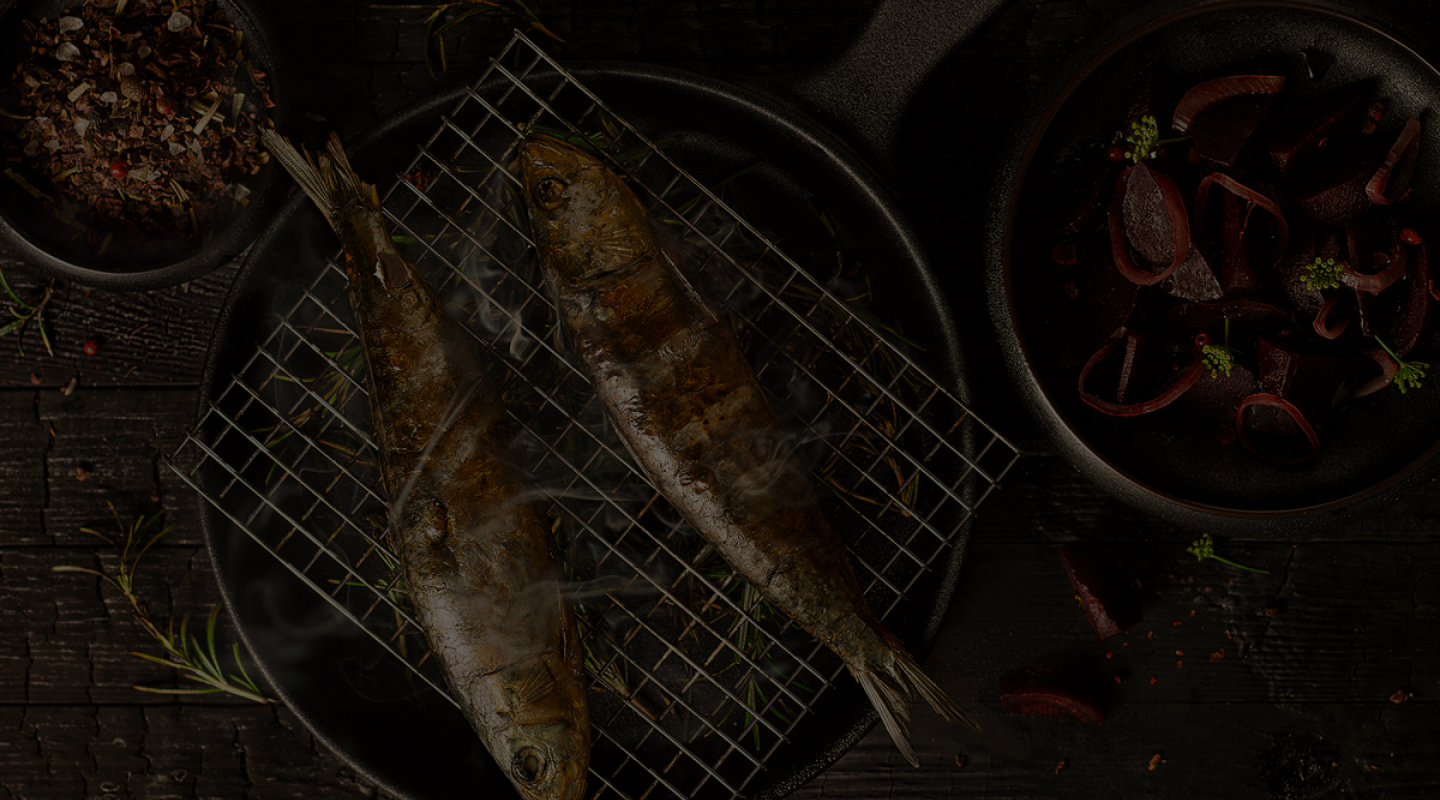
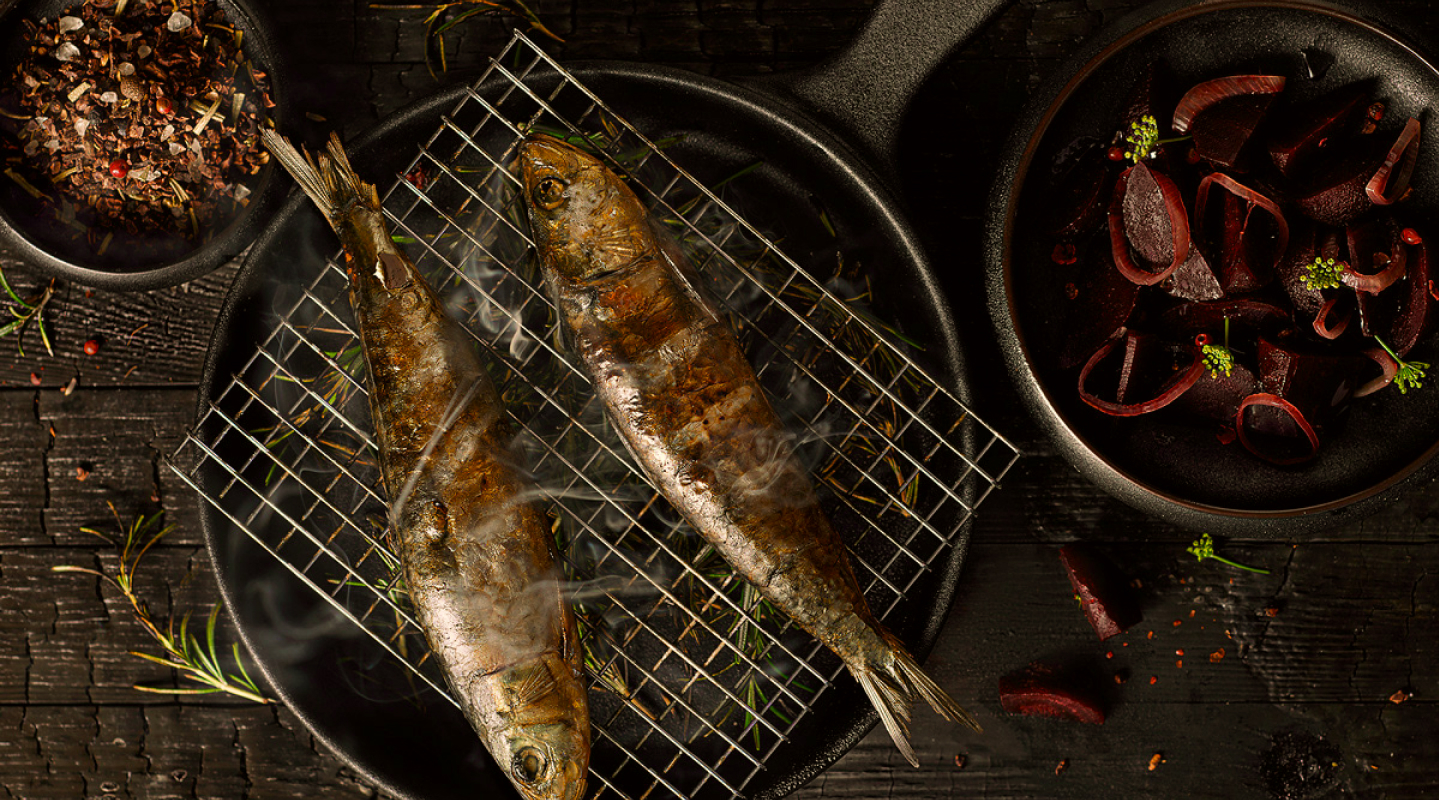
done 2d section

diff --git a/app/index.html b/app/index.html
@@ -10,7 +10,7 @@
 
 <body>
 
-  <header class="header">
+  <header class="header" style="background-image: url(img/header-bg.jpg);">
     <div class="container">
       <div class="header__top d-flex">
         <nav class="header__menu">
@@ -101,7 +101,7 @@
 
   <main>
 
-    <section class="section">
+    <section class="section" id="about">
       <div class="container">
         <div class="section__inner d-flex">
           <div class="section__content">
@@ -114,7 +114,30 @@
             </p>
           </div>
 
-          <img class="section__img" src="img/about-img.jpg" alt="">
+          <div class="section__img-wrapper">
+            <img class="section__img" src="img/about-img.jpg" alt="">
+          </div>
+        </div>
+      </div>
+    </section>
+
+    <section class="section" style="background-image: url(img/our-team-bg2.jpg);">
+      <div class="container">
+        <div class="title section__title">OUR TEAM</div>
+        <div class="section__inner d-flex">
+          <div class="section__content">
+            <h2 class="heading heading--small">MASTER CHEF</h2>
+            <p class="section__text section__text--bold">
+              Lorem ipsum dolor sit amet, consectetur adipiscing elit. Duis at velit maximus, molestie est a, tempor magna.
+            </p>
+            <p class="section__text">
+              Integer ullamcorper neque eu purus euismod, ac faucibus mauris posuere. Morbi non ultrices ligula. Sed dictum, enim sed ullamcorper feugiat, dui odio vehicula eros, a sollicitudin lorem quam nec sem. Mauris tincidunt feugiat diam convallis pharetra. Nulla facilisis semper laoreet.
+            </p>
+          </div>
+
+          <div class="section__img-wrapper">
+            <img class="section__img" src="img/chef-img.jpg" alt="Photo of our master chef">
+          </div>
         </div>
       </div>
     </section>

diff --git a/app/scss/page-index/_section.scss b/app/scss/page-index/_section.scss
@@ -1,0 +1,89 @@
+.section {
+  padding: 100px 0;
+
+  &:nth-child(even) {
+    position: relative;
+    background-repeat: no-repeat;
+    background-size: cover;
+    color: #fff;
+    z-index: 0;
+
+    &::before {
+      content: "";
+      position: absolute;
+      top: 0;
+      bottom: 0;
+      left: 0;
+      right: 0;
+      background-color: rgba(0, 0, 0, 0.6);
+      z-index: -1;
+    }
+
+    .section__inner {
+      flex-direction: row-reverse;
+    }
+
+    .section__content {
+      margin-right: 0;
+      margin-left: 80px;
+    }
+
+    .section__img-wrapper {
+      margin-right: 0;
+      margin-left: 124px;
+
+      &::after {
+        left: -26%;
+        right: unset;
+      }
+    }
+  }
+
+  &__title {
+    margin: 0 auto 40px;
+    width: fit-content;
+  }
+
+  &__inner {
+    justify-content: space-between;
+    align-items: center;
+  }
+
+  &__content {
+    margin-right: 80px;
+    text-align: center;
+  }
+
+  &__text {
+    line-height: 24px;
+
+    &--bold {
+      font-weight: 600;
+      font-size: 18px;
+      line-height: 28px;
+    }
+  }
+
+  &__img-wrapper {
+    position: relative;
+    margin-right: 124px;
+    max-width: 475px;
+    max-height: 475px;
+
+    &::after {
+      content: "";
+      position: absolute;
+      right: -26%;
+      top: 50%;
+      transform: translateY(-50%);
+      width: 250px;
+      height: 250px;
+      border: 20px solid $yellow;
+    }
+  }
+
+  &__img {
+    box-shadow: 0px 0px 50px rgba(0, 0, 0, 0.5);
+    border-radius: 5px;
+  }
+}

diff --git a/app/scss/page-index/_header.scss b/app/scss/page-index/_header.scss
@@ -1,12 +1,22 @@
 .header {
-  width: 100vw;
-  height: 100vh;
+  position: relative;
   padding-bottom: 80px;
+  height: 100vh;
   color: #fff;
-  background-image: url(../../img/header-bg.jpg);
-  background-color: #444444;
   background-repeat: no-repeat;
   background-size: cover;
+  z-index: 0;
+
+  &::before {
+    content: "";
+    position: absolute;
+    top: 0;
+    bottom: 0;
+    left: 0;
+    right: 0;
+    background-color: rgba(0, 0, 0, 0.6);
+    z-index: -1;
+  }
 
   &__top {
     justify-content: space-between;

diff --git a/app/scss/style.scss b/app/scss/style.scss
@@ -4,4 +4,4 @@
 
 @import "page-index/header";
 @import "page-index/social";
-@import "page-index/about";
+@import "page-index/section";
